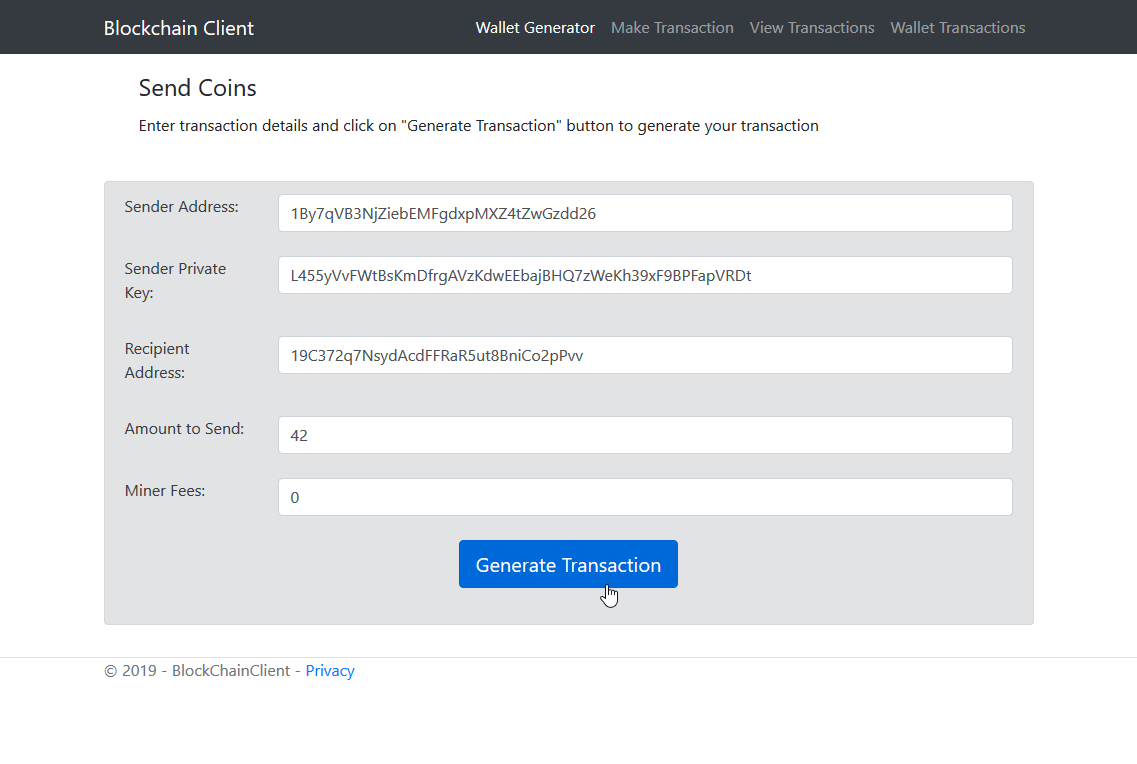
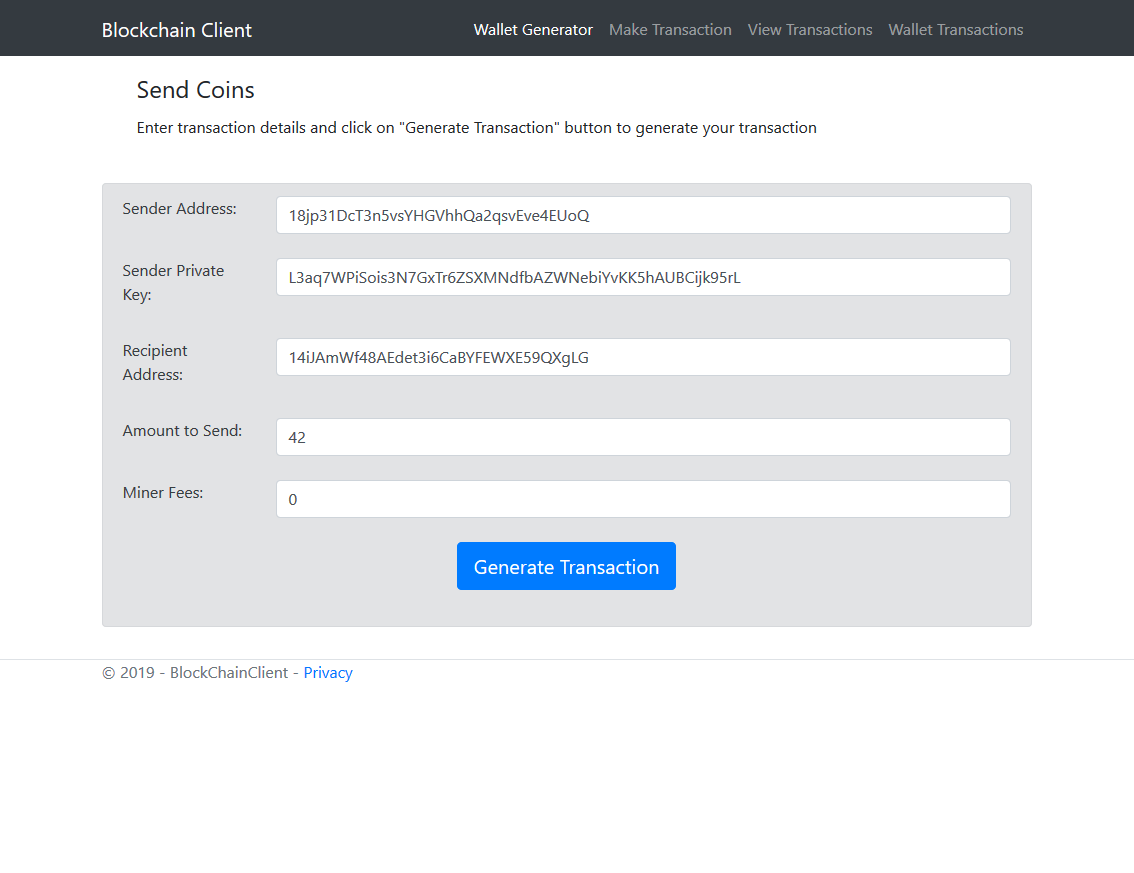
:white_check_mark: add test public & private keys :up: update images

diff --git a/BlockChain/BlockChain/Models/CryptoCurrency.cs b/BlockChain/BlockChain/Models/CryptoCurrency.cs
@@ -34,7 +34,7 @@ namespace BlockChain.Models
         
         public string NodeId { get; private set; }
         static int blockCount = 0;
-        static decimal reward = 1; // Set test reward value
+        static decimal reward = 50; // Set test reward value
 
         static string minerPrivateKey = "";
         static Wallet _minersWallet = RSA.RSA.KeyGenerate();
@@ -44,11 +44,12 @@ namespace BlockChain.Models
          */ 
         public CryptoCurrency()
         {
-            minerPrivateKey = _minersWallet.PrivateKey; //"L3aq7WPiSois3N7GxTr6ZSXMNdfbAZWNebiYvKK5hAUBCijk95rL";
-            NodeId = _minersWallet.PublicKey; //"18jp31DcT3n5vsYHGVhhQa2qsvEve4EUoQ";
+            // Set test public & private keys
+            minerPrivateKey = "L3aq7WPiSois3N7GxTr6ZSXMNdfbAZWNebiYvKK5hAUBCijk95rL"; //_minersWallet.PrivateKey; 
+            NodeId = "18jp31DcT3n5vsYHGVhhQa2qsvEve4EUoQ";//_minersWallet.PublicKey; 
 
             // Initial transaction
-            var transaction = new Transaction { Sender = "0", Recipient = NodeId, Amount = 49, Fees = 0, Signature = "" };
+            var transaction = new Transaction { Sender = "0", Recipient = NodeId, Amount = 50, Fees = 0, Signature = "" };
             _currentTransactions.Add(transaction);
 
             CreateNewBlock(proof: 100, previousHash: "1"); // Genesis block 

diff --git a/BlockChain/BlockChainClient/Controllers/HomeController.cs b/BlockChain/BlockChainClient/Controllers/HomeController.cs
@@ -55,7 +55,7 @@ namespace BlockChainClient.Controllers
         [HttpPost]
         public IActionResult ViewTransaction(string node_url)
         {
-            node_url = "http://localhost:5000";
+            node_url = "http://localhost:43211";
 
             var url = new Uri(node_url + "/chain");
             ViewBag.Blocks = GetChain(url);
@@ -81,7 +81,7 @@ namespace BlockChainClient.Controllers
         [HttpPost]
         public IActionResult WalletTransaction(string publicKey)
         {
-            var url = new Uri("http://localhost:5000" + "/chain"); // blockchain node URI
+            var url = new Uri("http://localhost:43211" + "/chain"); // blockchain node URI
             var blocks = GetChain(url);
             ViewBag.publicKey = publicKey;
 
